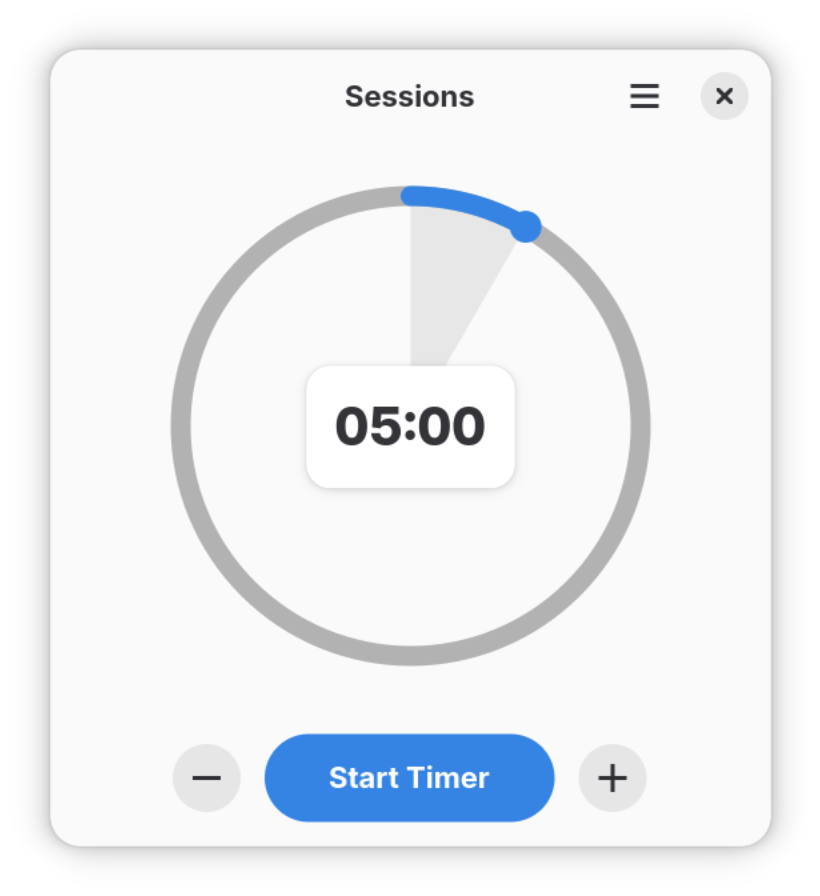
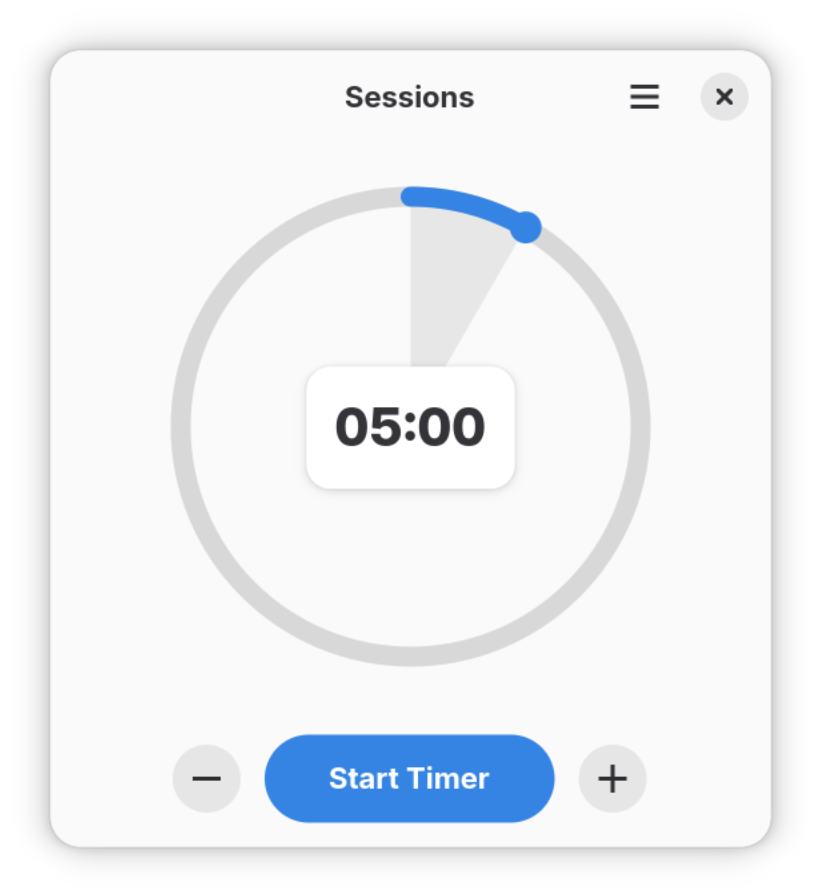
refactor: Use Adwaita colours for dial and improve rendering of alarming dial

diff --git a/internal/components/dial.go b/internal/components/dial.go
@@ -286,9 +286,30 @@ func init() {
 			r := math.Min(cx, cy) - 15
 
 			styleContext := widget.GetStyleContext()
-			var accent, errColor gdk.RGBA
+			var accent, errColor, destructiveColor, windowBg gdk.RGBA
 			styleContext.LookupColor("accent_bg_color", &accent)
 			styleContext.LookupColor("error_color", &errColor)
+			styleContext.LookupColor("destructive_color", &destructiveColor)
+			styleContext.LookupColor("window_bg_color", &windowBg)
+
+			// We use manually sampled values these since we a slightly lighter colour than the button colours
+			var trackColor gdk.RGBA
+			if dialW.app.GetStyleManager().GetDark() {
+				trackColor = gdk.RGBA{Red: 0x34 / 255.0, Green: 0x34 / 255.0, Blue: 0x37 / 255.0, Alpha: 1.0}
+			} else {
+				trackColor = gdk.RGBA{Red: 0xD8 / 255.0, Green: 0xD8 / 255.0, Blue: 0xD8 / 255.0, Alpha: 1.0}
+			}
+			if !widget.IsSensitive() {
+				// Matches the text colour of a .destructive-action libadwaita button
+				const disabledOpacity float32 = 0.5
+				a := disabledOpacity * destructiveColor.Alpha
+				trackColor = gdk.RGBA{
+					Red:   destructiveColor.Red*a + windowBg.Red*(1-a),
+					Green: destructiveColor.Green*a + windowBg.Green*(1-a),
+					Blue:  destructiveColor.Blue*a + windowBg.Blue*(1-a),
+					Alpha: 1.0,
+				}
+			}
 
 			highContrast := dialW.app.GetStyleManager().GetHighContrast()
 
@@ -306,13 +327,6 @@ func init() {
 				}
 			}
 
-			grayColor := gdk.RGBA{
-				Red:   0.7,
-				Green: 0.7,
-				Blue:  0.7,
-				Alpha: 1.0,
-			}
-
 			fullCircleBuilder := gsk.NewPathBuilder()
 			defer fullCircleBuilder.Unref()
 			centerPoint := graphene.Point{X: float32(cx), Y: float32(cy)}
@@ -321,7 +335,7 @@ func init() {
 			defer fullCirclePath.Unref()
 			fullCircleStroke := gsk.NewStroke(10.0)
 			defer fullCircleStroke.Free()
-			snapshot.AppendStroke(fullCirclePath, fullCircleStroke, &grayColor)
+			snapshot.AppendStroke(fullCirclePath, fullCircleStroke, &trackColor)
 
 			if highContrast {
 				outerBorderBuilder := gsk.NewPathBuilder()
@@ -339,23 +353,18 @@ func init() {
 				strokeBorder(innerBorderPath)
 			}
 
-			if dialW.remainingTime > 0 || dialW.countingDown {
+			// Skip the arc when remaining=0 and we're counting down, else we get a red flash
+			// until we render the non-sensitive colour
+			if widget.IsSensitive() && !(dialW.countingDown && dialW.remainingTime == 0) && (dialW.remainingTime > 0 || dialW.countingDown) {
 				progress := float64(dialW.remainingTime) / state.MaxInitialRemainingTime.Seconds()
-				var angle float64
+				angle := -math.Pi/2 + 2*math.Pi*progress
 				var lineColor gdk.RGBA
 				var fillR, fillG, fillB, fillA float32
-				noFill := false
 
-				if dialW.countingDown && dialW.remainingTime > 0 {
-					angle = -math.Pi/2 + 2*math.Pi*progress
+				if dialW.countingDown {
 					lineColor = errColor
 					fillR, fillG, fillB, fillA = errColor.Red, errColor.Green, errColor.Blue, 0.3
-				} else if dialW.countingDown && dialW.remainingTime == 0 {
-					angle = -math.Pi / 2
-					lineColor = errColor
-					noFill = true
 				} else {
-					angle = -math.Pi/2 + 2*math.Pi*progress
 					lineColor = accent
 					fillR, fillG, fillB, fillA = 0.6, 0.6, 0.6, 0.2
 				}
@@ -383,27 +392,25 @@ func init() {
 					}
 				}
 
-				if !noFill {
-					if isFullCircle {
-						fullFillBuilder := gsk.NewPathBuilder()
-						defer fullFillBuilder.Unref()
-						fullFillBuilder.AddCircle(&graphene.Point{X: float32(cx), Y: float32(cy)}, float32(r))
-						fullFillPath := fullFillBuilder.ToPath()
-						defer fullFillPath.Unref()
-						snapshot.AppendFill(fullFillPath, gsk.FillRuleWindingValue, &fillColor)
-						strokeBorder(fullFillPath)
-					} else {
-						arcBuilder := gsk.NewPathBuilder()
-						defer arcBuilder.Unref()
-						arcBuilder.MoveTo(float32(cx), float32(cy))
-						arcBuilder.LineTo(startX, startY)
-						drawArcOrCircle(arcBuilder, float32(r), float32(r), endX, endY)
-						arcBuilder.LineTo(float32(cx), float32(cy))
-						arcPath := arcBuilder.ToPath()
-						defer arcPath.Unref()
-						snapshot.AppendFill(arcPath, gsk.FillRuleWindingValue, &fillColor)
-						strokeBorder(arcPath)
-					}
+				if isFullCircle {
+					fullFillBuilder := gsk.NewPathBuilder()
+					defer fullFillBuilder.Unref()
+					fullFillBuilder.AddCircle(&graphene.Point{X: float32(cx), Y: float32(cy)}, float32(r))
+					fullFillPath := fullFillBuilder.ToPath()
+					defer fullFillPath.Unref()
+					snapshot.AppendFill(fullFillPath, gsk.FillRuleWindingValue, &fillColor)
+					strokeBorder(fullFillPath)
+				} else {
+					arcBuilder := gsk.NewPathBuilder()
+					defer arcBuilder.Unref()
+					arcBuilder.MoveTo(float32(cx), float32(cy))
+					arcBuilder.LineTo(startX, startY)
+					drawArcOrCircle(arcBuilder, float32(r), float32(r), endX, endY)
+					arcBuilder.LineTo(float32(cx), float32(cy))
+					arcPath := arcBuilder.ToPath()
+					defer arcPath.Unref()
+					snapshot.AppendFill(arcPath, gsk.FillRuleWindingValue, &fillColor)
+					strokeBorder(arcPath)
 				}
 
 				lineStrokeColor := gdk.RGBA{